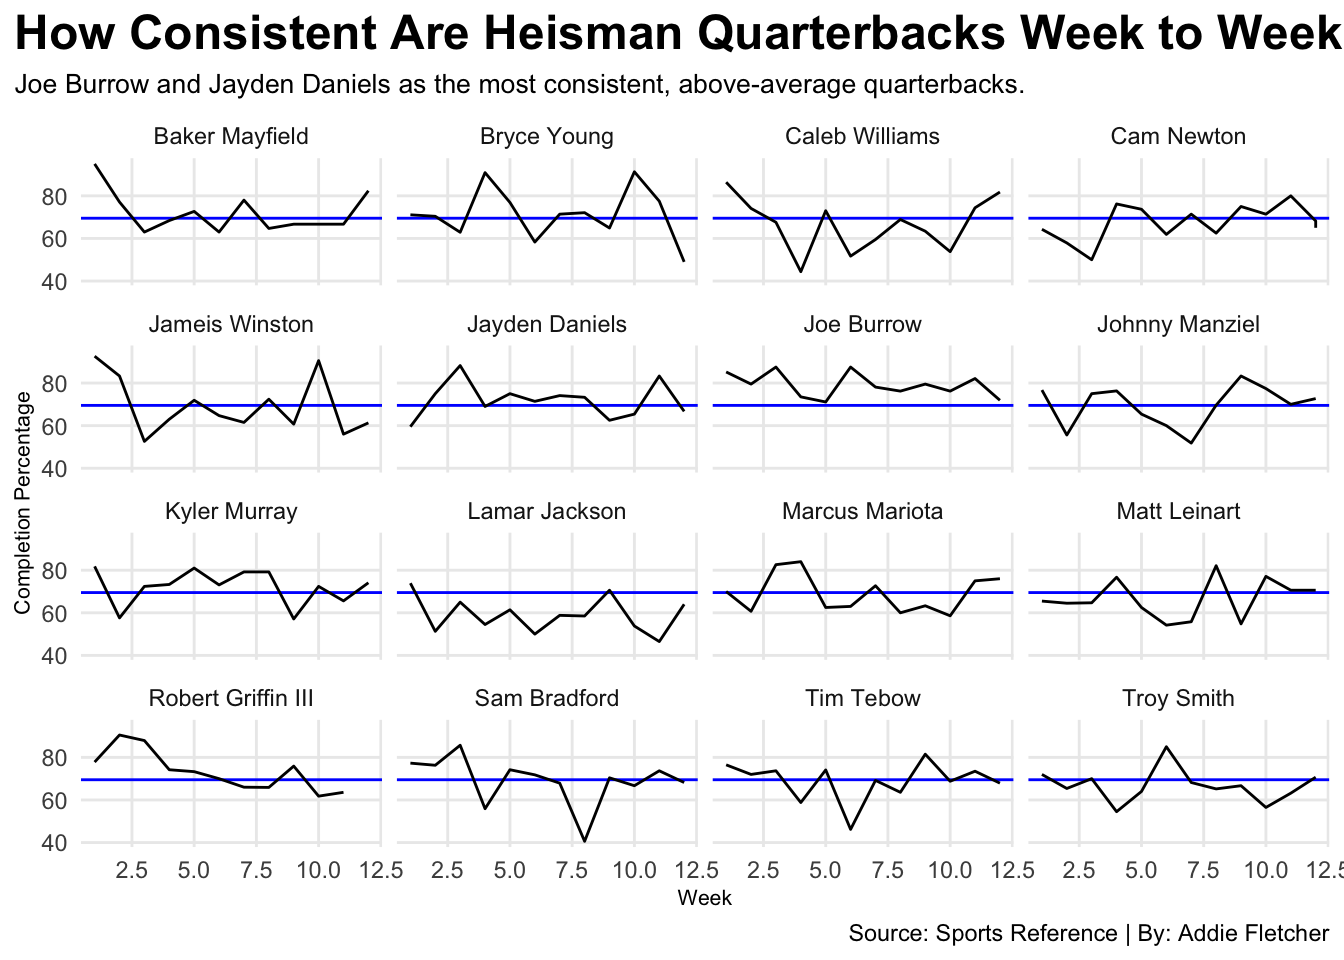
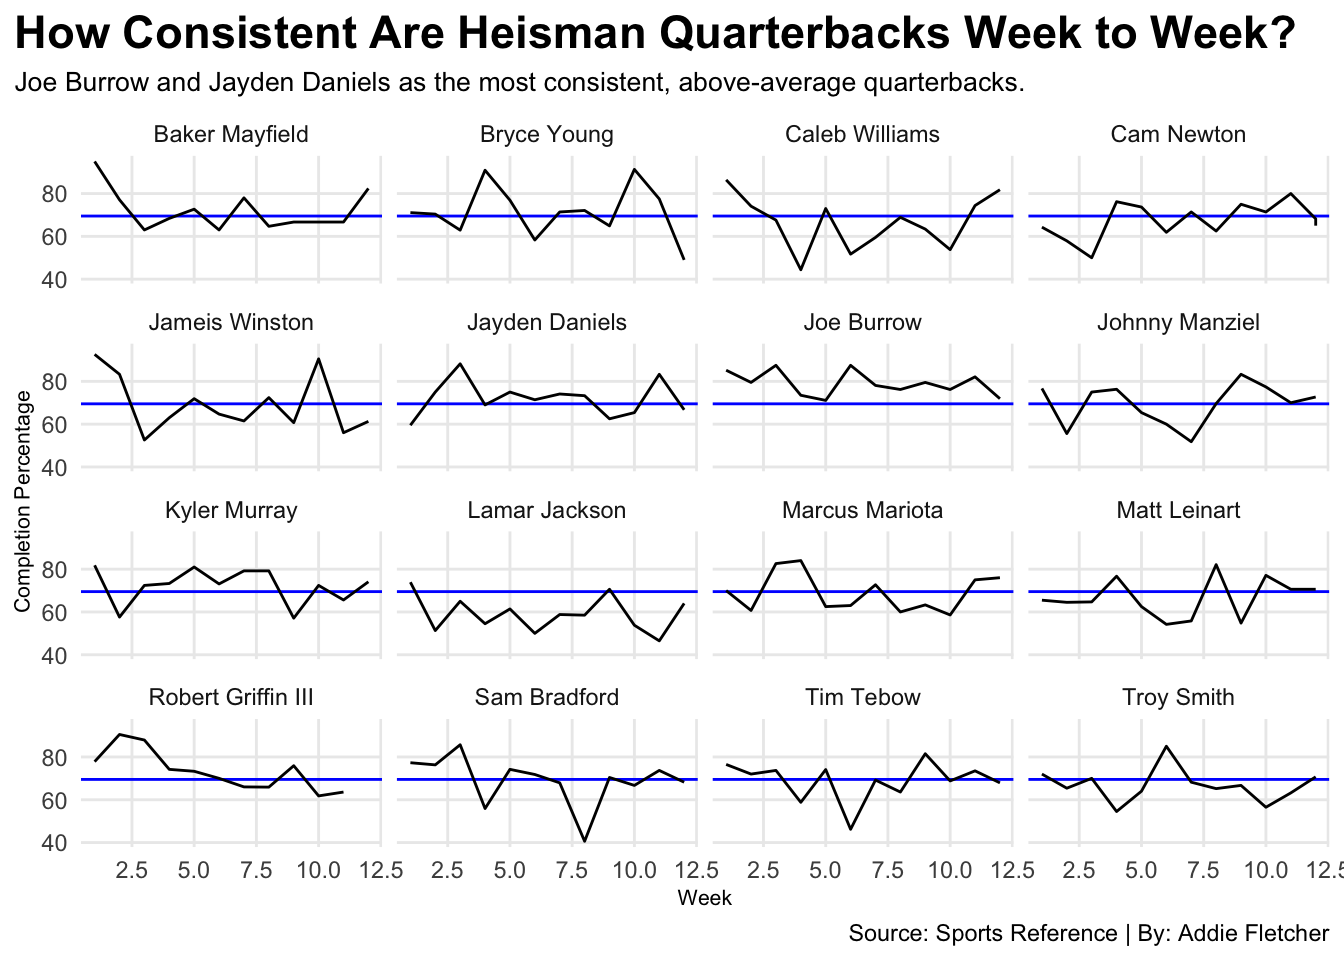
who is the best Heisman quarterback in the last 20 years?

diff --git a/posts/who-is-the-best-heisman-qb-in-the-last-20-years/index.html b/posts/who-is-the-best-heisman-qb-in-the-last-20-years/index.html
@@ -316,7 +316,7 @@ pre > code.sourceCode > span > a:first-child::before { text-decoration: underlin
 <span id="cb3-18"><a href="#cb3-18" aria-hidden="true" tabindex="-1"></a>    )<span class="sc">+</span></span>
 <span id="cb3-19"><a href="#cb3-19" aria-hidden="true" tabindex="-1"></a><span class="fu">theme_minimal</span>()<span class="sc">+</span> </span>
 <span id="cb3-20"><a href="#cb3-20" aria-hidden="true" tabindex="-1"></a>  <span class="fu">theme</span>(</span>
-<span id="cb3-21"><a href="#cb3-21" aria-hidden="true" tabindex="-1"></a>    <span class="at">plot.title =</span> <span class="fu">element_text</span>(<span class="at">size =</span> <span class="dv">18</span>, <span class="at">face =</span> <span class="st">"bold"</span>),</span>
+<span id="cb3-21"><a href="#cb3-21" aria-hidden="true" tabindex="-1"></a>    <span class="at">plot.title =</span> <span class="fu">element_text</span>(<span class="at">size =</span> <span class="dv">17</span>, <span class="at">face =</span> <span class="st">"bold"</span>),</span>
 <span id="cb3-22"><a href="#cb3-22" aria-hidden="true" tabindex="-1"></a>    <span class="at">axis.title =</span> <span class="fu">element_text</span>(<span class="at">size =</span> <span class="dv">8</span>), </span>
 <span id="cb3-23"><a href="#cb3-23" aria-hidden="true" tabindex="-1"></a>    <span class="at">plot.subtitle =</span> <span class="fu">element_text</span>(<span class="at">size=</span><span class="dv">10</span>), </span>
 <span id="cb3-24"><a href="#cb3-24" aria-hidden="true" tabindex="-1"></a>    <span class="at">panel.grid.minor =</span> <span class="fu">element_blank</span>(),</span>

diff --git a/index.html b/index.html
@@ -209,7 +209,7 @@ window.Quarto = {
 
 <div class="quarto-listing quarto-listing-container-default" id="listing-listing">
 <div class="list quarto-listing-default">
-<div class="quarto-post image-right" data-index="0" data-categories="Rm9vdGJhbGw=" data-listing-date-sort="1764914400000" data-listing-file-modified-sort="1764965752509" data-listing-date-modified-sort="NaN" data-listing-reading-time-sort="5" data-listing-word-count-sort="899">
+<div class="quarto-post image-right" data-index="0" data-categories="Rm9vdGJhbGw=" data-listing-date-sort="1764914400000" data-listing-file-modified-sort="1764965999122" data-listing-date-modified-sort="NaN" data-listing-reading-time-sort="5" data-listing-word-count-sort="899">
 <div class="thumbnail"><a href="./posts/who-is-the-best-heisman-qb-in-the-last-20-years/index.html" class="no-external">
 
 <img loading="lazy" src="./posts/who-is-the-best-heisman-qb-in-the-last-20-years/image.png" class="thumbnail-image">
